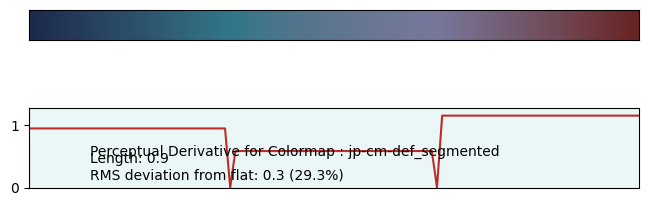
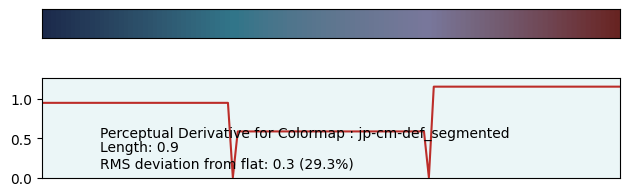
update readme

Changed region(s): [[0.0, 0.398, 0.9952, 0.949], [0.0302, 0.0306, 0.9952, 0.2143]]

diff --git a/gen/gen.py b/gen/gen.py
@@ -109,8 +109,8 @@ def calculatePD(gradient, RGB, name):
     ax.get_xaxis().set_visible(False)
     ax.margins(0.0)
     ax.set_facecolor(aijiro)
-    ax.set_aspect(12)
-    # fig.tight_layout()
+    ax.set_aspect(16)
+    fig.tight_layout()
     return fig
 
 def gen_cmaps(cmaps,segmented=False):
